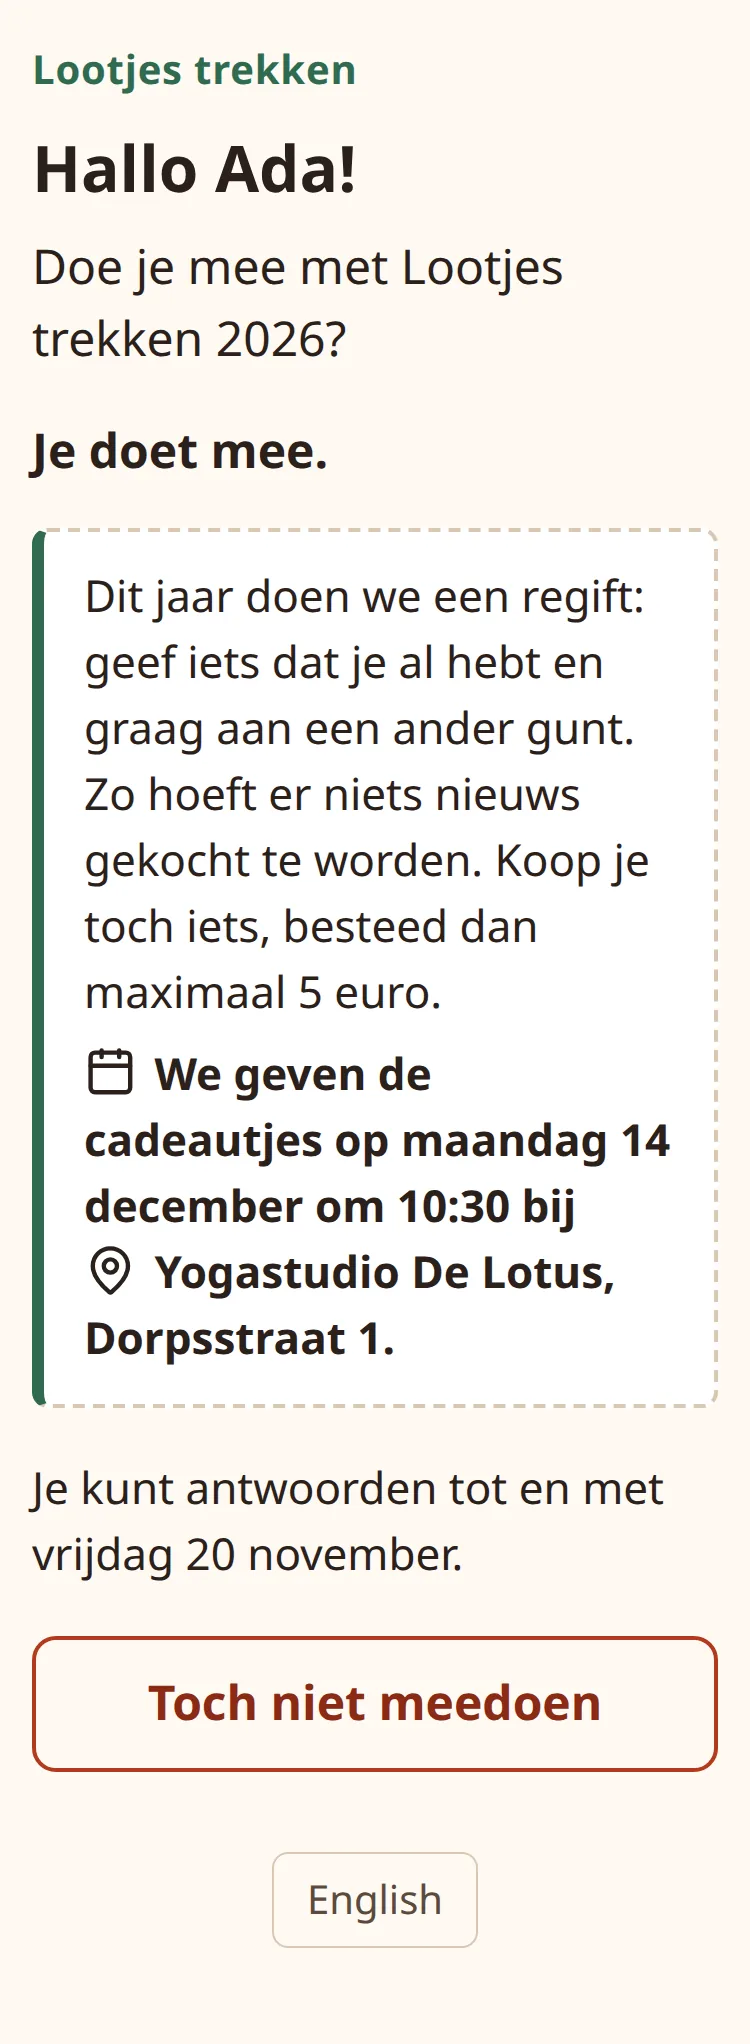
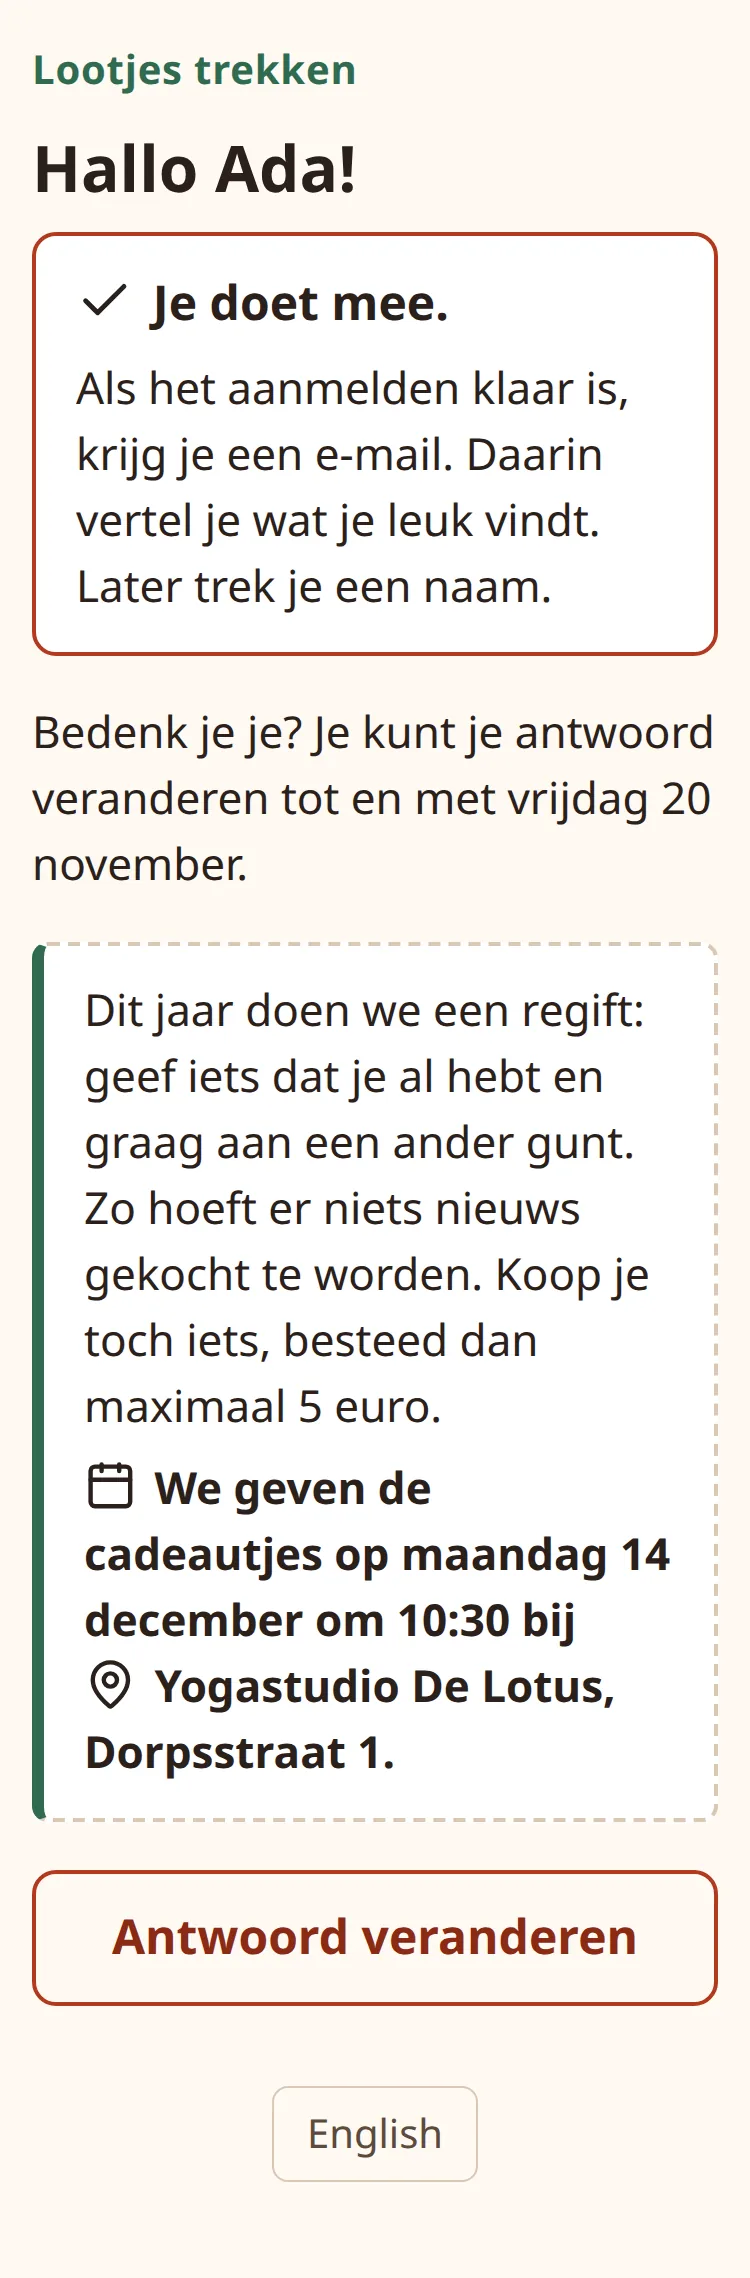
docs: describe the fixes from the end-to-end run
Explain in troubleshooting why a class on one Wi-Fi network does not
hit the participant limits, and correct the closing-date error headings
and the Open drawing refusal. Re-shoot the sign-up, paste check, import
error and Invitations/Drawing screenshots for the changed pages, add a
group dashboard shot during sign-up, and fix their alt texts.

diff --git a/docs/troubleshooting.md b/docs/troubleshooting.md
@@ -47,7 +47,7 @@ The page says **No access** (*Geen toegang*). The connection did not come from a
 
 ### The "Open drawing" button is refused
 
-Send the invitations first (with email off: press **The links have been shared**), and make sure the group has at least 3 people. The message in the Drawing panel says which of the two it is.
+Tick **Yes, I am sure** (*Ja, ik weet het zeker*) next to the button first; without it the panel says **Tick "Yes, I am sure" first. Opening cannot be undone.** Also send the invitations first (with email off: press **The links have been shared**), and make sure the group has at least 3 people. The message in the Drawing panel says which it is.
 
 ### Drawing did not open on its automatic date
 
@@ -95,13 +95,13 @@ Someone in the event has already been invited: a group has had its invitations s
 
 (*De sluitdatum is voorbij.*) The closing date went by before the question was sent. Fill in **New closing date**, press **Move the date**, and **Send now** is back. See [Send the question](guide/signup.md#send-the-question).
 
-### "Choose a date before the first exchange date."
+### "Choose a closing date earlier than the first exchange date."
 
-(*Kies een datum voor de eerste ruildatum.*) The closing date must be before the earliest exchange date of all groups in the event, so that the answers are in before the first exchange. Choose an earlier closing date, or move that group's exchange date.
+(*Kies een sluitdatum die eerder is dan de eerste ruildatum.*) The closing date must be before the earliest exchange date of all groups in the event, so that the answers are in before the first exchange. Choose an earlier closing date, or move that group's exchange date.
 
-### "Choose a date before the day drawing opens automatically."
+### "Choose a closing date earlier than the day drawing opens automatically."
 
-(*Kies een datum voor de dag waarop het trekken automatisch opengaat.*) A group has an automatic opening date on or before the closing date you chose. Choose an earlier closing date, or on that group's dashboard move its **Drawing opens automatically on** date to after the closing date, or clear it.
+(*Kies een sluitdatum die eerder is dan de dag waarop het trekken automatisch opengaat.*) A group has an automatic opening date on or before the closing date you chose. Choose an earlier closing date, or on that group's dashboard move its **Drawing opens automatically on** date to after the closing date, or clear it.
 
 ### A group is refused with "The exchange date must be after the sign-up closing date."
 
@@ -166,3 +166,12 @@ That mail goes only to a giver who has already drawn and has email, about 15 min
 ### A participant sees "Too much at once. Please try again in a minute."
 
 (*Even te veel tegelijk. Probeer het over een minuut opnieuw.*) Their internet address tried too many links that do not exist, or loaded a very large number of pages. Waiting a minute helps. If a whole group shares one connection behind your reverse proxy and this happens often, set `TRUSTED_PROXIES` so the app can tell people apart.
+
+### Can a whole class on one Wi-Fi network block each other?
+
+No, not in normal use. Everyone on one Wi-Fi network, for example in a community centre or a classroom, reaches the app from the same internet address, so the app counts them together. The two limits on participant pages are set with that in mind:
+
+- **Links that do not exist**: at most 20 per minute per address. Only a link the app does not know counts: a mistyped or cut-off link, or an old one you replaced. Opening a working link, saving wishes or drawing never counts toward it. When the limit is reached, everyone on that address gets **Too much at once** for the rest of that minute, also with a working link, so someone guessing links learns nothing. A class only gets there if many people open broken links within the same minute; if that happens, send the right links and wait a minute.
+- **All page views and button presses with a working link**: at most 600 per minute per address. A class of 30 opening their page, filling in wishes and drawing at the same time uses a small part of that.
+
+The organiser login has its own limit (10 wrong passwords per address in 15 minutes, 50 overall in an hour), which protects the password; see ["Too many attempts"](#too-many-attempts-please-try-again-later-and-nobody-can-log-in). It does not affect participants. Behind a reverse proxy without `TRUSTED_PROXIES`, every visitor counts as the proxy's address; set it so each connection is counted on its own.

diff --git a/docs/participants.md b/docs/participants.md
@@ -10,11 +10,11 @@ Only when the organiser [asks who takes part](guide/signup.md) first. Until the 
 
 <div class="phones" markdown>
 
-![The question: "Doe je mee met Lootjes trekken 2026?", the theme, the date and place, the closing date, and the buttons "Ja, ik doe mee" and "Nee, deze keer niet"](images/participant-signup.webp){ .shot width="240" }
+![Opened from the yes button in the mail: "Doe je mee aan Lootjes trekken 2026?", "Bijna klaar: tik hieronder om het te bevestigen", one large button "Ja, ik doe mee" with the link "Toch niet? Nee, deze keer niet" below it, the closing date, the theme, and the date and place](images/participant-signup.webp){ .shot width="240" }
 
-![After answering yes: "Je doet mee." and the button "Toch niet meedoen"](images/participant-signup-answered.webp){ .shot width="240" }
+![After answering yes: "Je doet mee." in a box with what comes next, until when the answer can change, and the button "Antwoord veranderen"](images/participant-signup-answered.webp){ .shot width="240" }
 
-![After the closing date: "Aanmelden is gesloten. Je doet deze keer niet mee." and a note to ask the organiser](images/participant-signup-closed.webp){ .shot width="240" }
+![After the closing date: "Aanmelden is gesloten. Je doet deze keer niet mee." and a note to ask the organiser, for example in class](images/participant-signup-closed.webp){ .shot width="240" }
 
 </div>
 

diff --git a/docs/guide/signup.md b/docs/guide/signup.md
@@ -78,6 +78,8 @@ Each group's dashboard shows the answers too, from the moment sign-up is on unti
 - With email on, the **Invited** (*Uitgenodigd*) column is replaced by **Sign-up mail** (*Aanmeldmail*): the state of their sign-up mail (**Queued**, **Sent**, **Failed, retrying** or **Failed**), **Not yet** before you send, **Not needed, already answered** (*Niet nodig, al geantwoord*) for someone whose answer you set before sending, and **Not applicable** without an address.
 - The counts at the top add the answers, for example **Sign-up: 2 yes, 1 no, 4 not yet** (*Aanmelding: 2 ja, 1 nee, 4 nog niet*), and with email on count the sign-up mails instead of the invitations: **6 of 7 with email were sent the sign-up mail** (*6 van 7 met e-mail kregen de aanmeldmail*). Only delivered mails count, and people whose answer you set before sending are left out of the total, because they need no mail.
 
+![A group dashboard during sign-up: the counts with the answers and the sign-up mails, and the Sign-up and Sign-up mail columns in the table](../images/organiser-signup-dashboard.webp){ .shot }
+
 To set an answer, use the event page or the person's own page. Once you start the draw, the dashboard goes back to the usual columns and counts of [Follow up](follow-up.md#read-the-dashboard).
 
 ### What the app sends by itself

diff --git a/docs/guide/import.md b/docs/guide/import.md
@@ -178,7 +178,7 @@ Checking creates nothing yet. You get one of two pages.
 
     The text is below the list; correct it there, or paste the list into the chat and ask the assistant to fix the file, then check again.
 
-![Three problems listed with the group and participant they belong to](../images/organiser-import-errors.webp){ .shot }
+![Three problems listed with the group and participant they belong to, one of them a name that is already in the group](../images/organiser-import-errors.webp){ .shot }
 
 **Check before importing** (*Controleer voor het importeren*)
 :   Everything the import will create: the event's settings, the questions of the wish form in their order with the choices of each tick list, each group with its date, place and auto-open date, and the number of participants. Open a group's count to see the names.

diff --git a/docs/guide/groups.md b/docs/guide/groups.md
@@ -41,7 +41,7 @@ Henk; henk@example.com
 
 When every line is fine, the people are added straight away and the dashboard says **Added.** (*Toegevoegd.*). Otherwise you first see a **Check the list** (*Controleer de lijst*) page:
 
-![The check page: one skipped line, one address already used in another group, and the people to add](../images/organiser-paste-confirm.webp){ .shot }
+![The check page: two skipped lines, one with an invalid address and one with an address already on line 2, then an address already used in another group, and the people to add](../images/organiser-paste-confirm.webp){ .shot }
 
 **These lines are skipped** (*Deze regels worden overgeslagen*)
 :   Lines that cannot be added, each with its line number and the reason:

diff --git a/docs/guide/invitations.md b/docs/guide/invitations.md
@@ -12,7 +12,7 @@ You have to do this step once per group, even when nobody in it has email: drawi
 
 On the group dashboard, the **Invitations** (*Uitnodigingen*) panel says how many participants with email have no invitation yet. Press **Send invitations** (*Uitnodigingen versturen*).
 
-![The Invitations panel with the Send invitations button, and the Drawing panel below it](../images/organiser-invite.webp){ .shot }
+![The Invitations panel with the Send invitations button, and the Drawing panel below it with the "Ja, ik weet het zeker" tick box above Open drawing](../images/organiser-invite.webp){ .shot }
 
 What happens:
 
